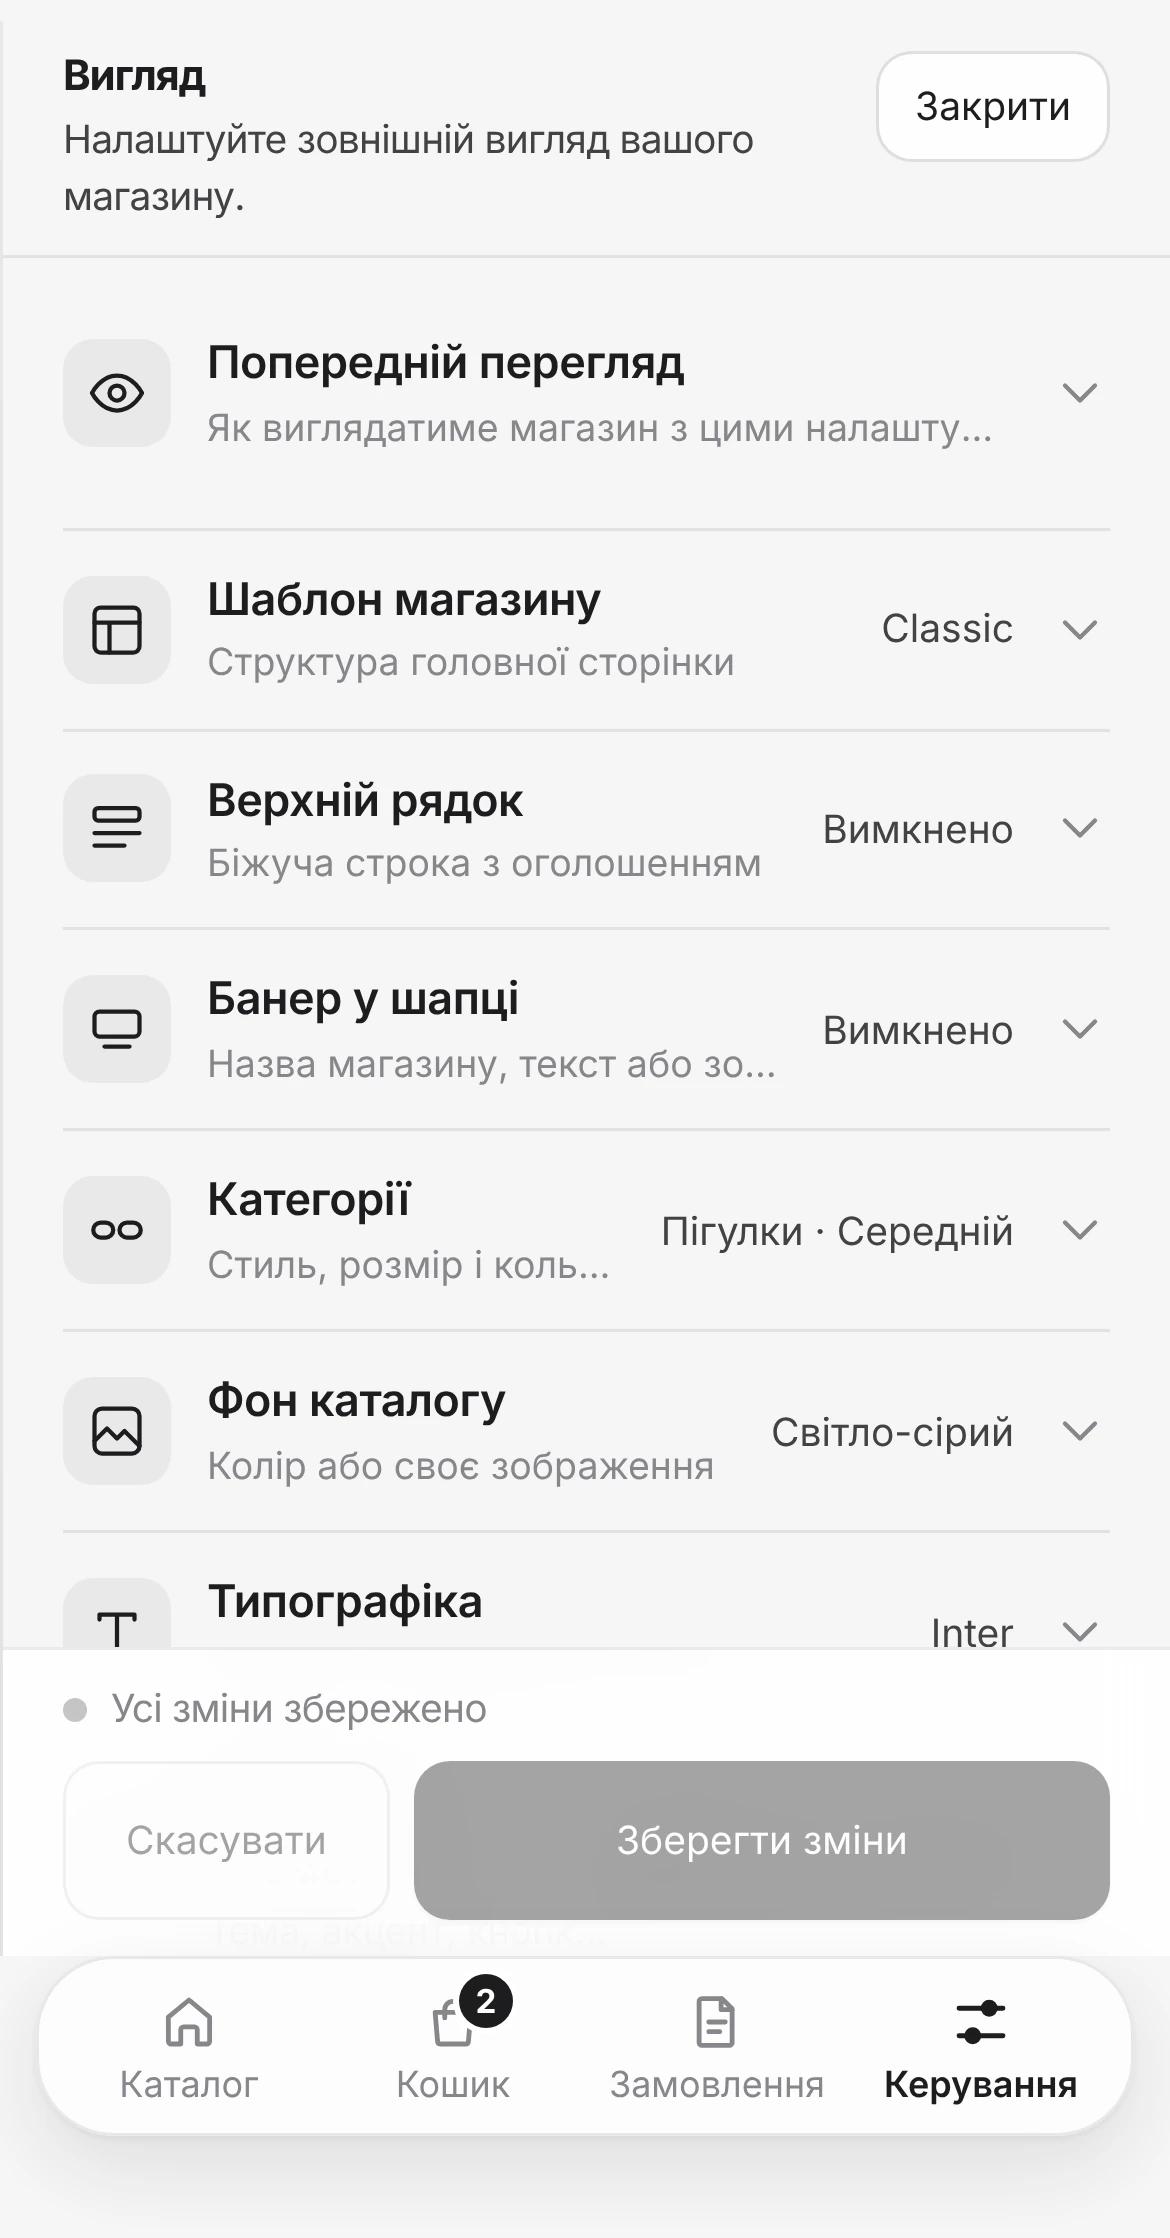
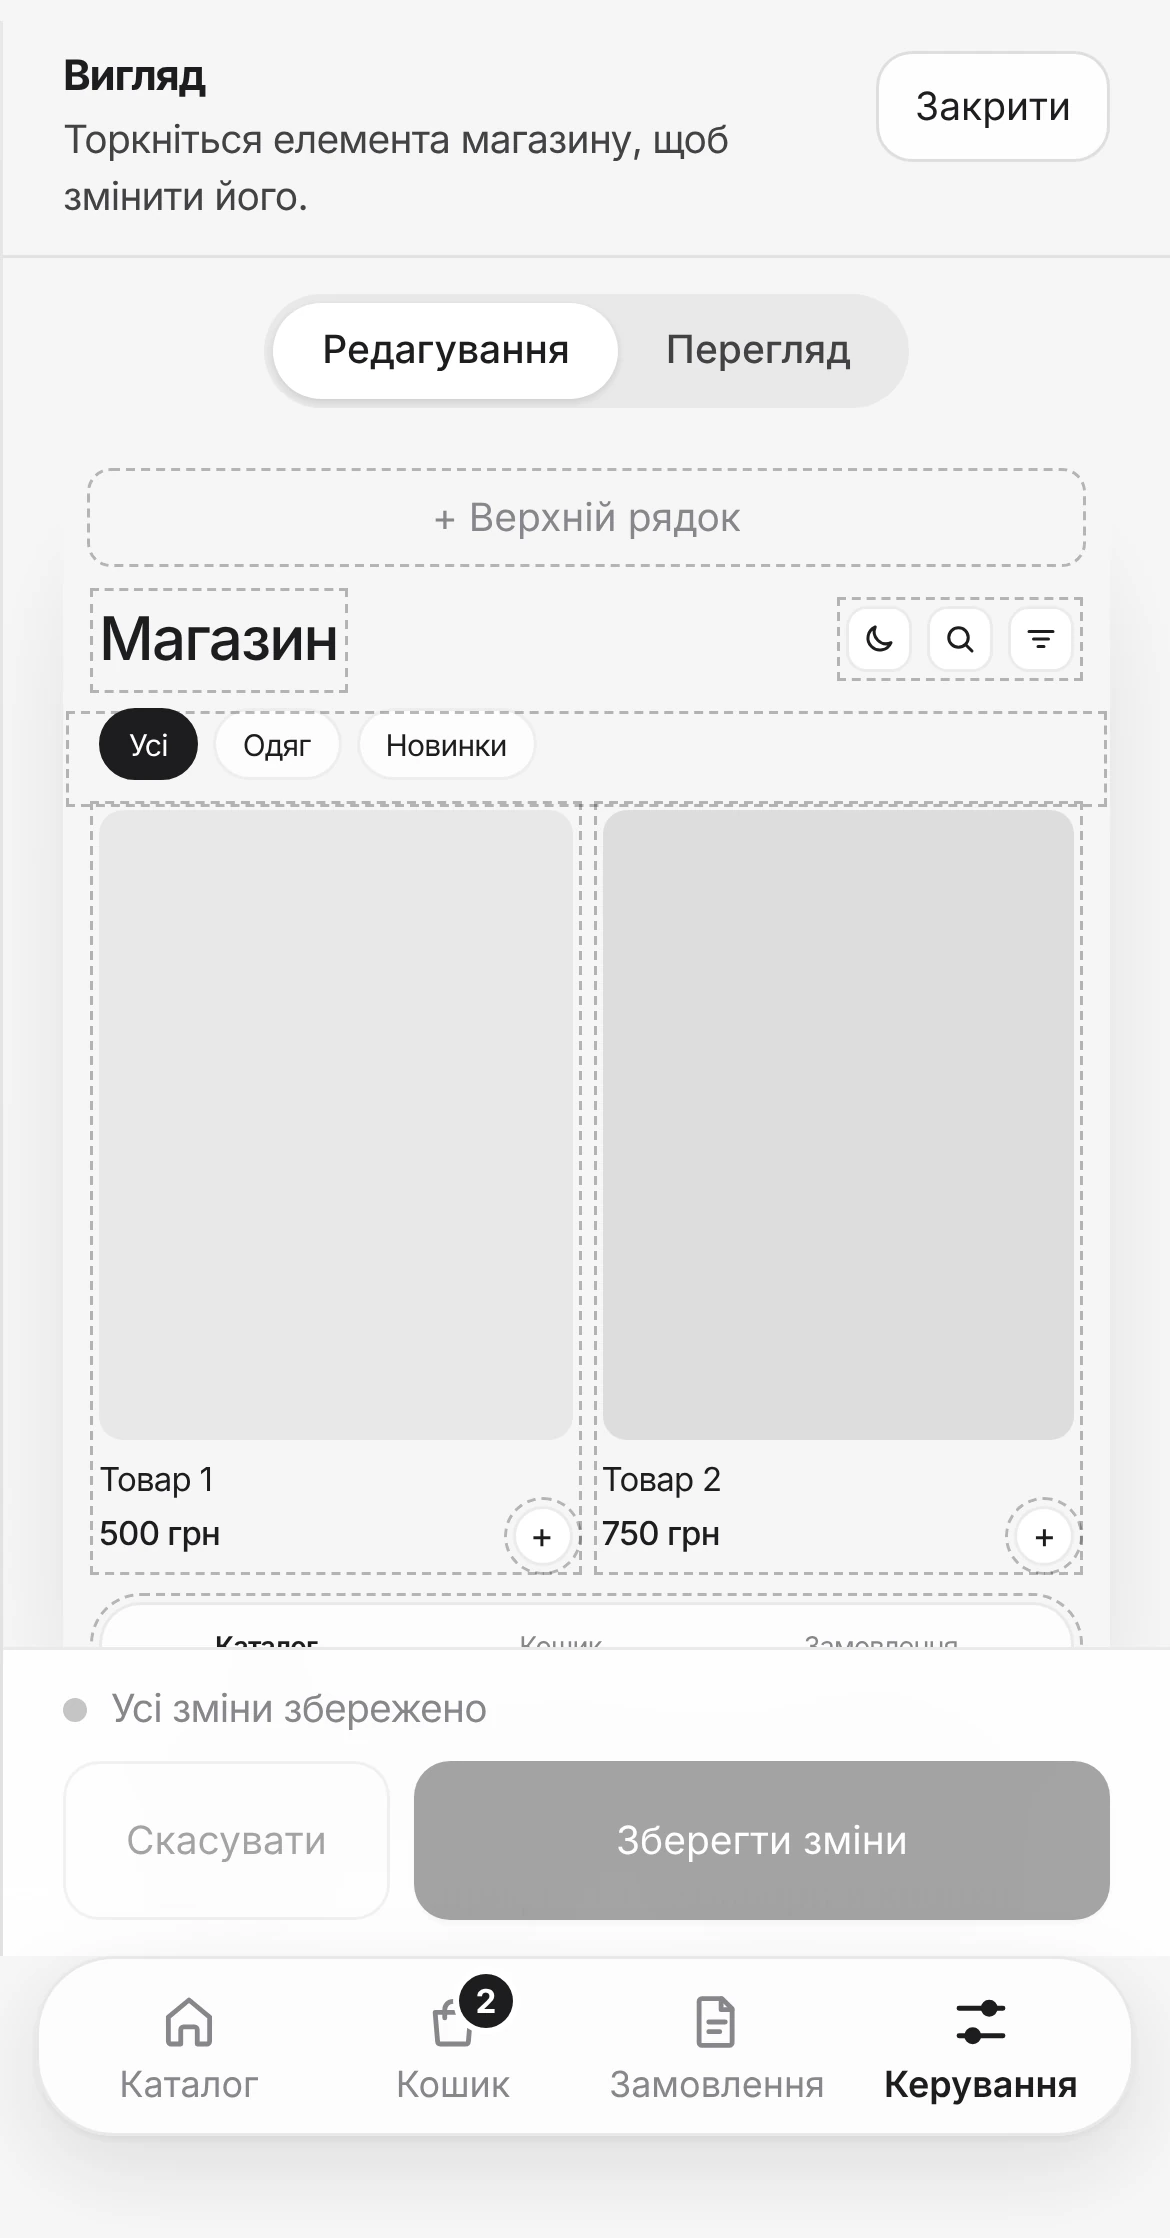
Docs: Вигляд is a tap-to-edit constructor
The appearance screen now shows the shop itself: tap an element to open
its settings, drag a banner's text, remove or re-add optional elements.
New screenshot appearance-edit, platform facts for the new names.

Claude-Session: https://claude.ai/code/session_01Tv2wQGZTVvFh9Ve4QWyixy

diff --git a/docs/_internal/platform-facts.md b/docs/_internal/platform-facts.md
@@ -160,6 +160,19 @@
 - `Модулі` → **Модулі магазину**
 - `Доставка` → **Нова пошта**
 - `Вигляд` → картки немає: чип одразу відкриває редактор вигляду
+
+### Редактор «Вигляд» (конструктор, з 2026-10)
+
+Джерело: `backend/webapp/admin_products/index.html` (`#appearanceDrawer`) і `main.js` (`AP_SHEET_TITLES`, `AP_OPTIONAL`).
+
+- Угорі перемикач `Редагування` / `Перегляд`; кнопки `Закрити`, внизу `Скасувати` і `Зберегти зміни`.
+- Макет магазину: дотик до елемента відкриває знизу панель з кнопкою `Готово`.
+- Назви панелей: `Шаблон магазину`, `Верхній рядок`, `Банер у шапці`, `Кнопки в шапці`, `Категорії`, `Фон каталогу`, `Шрифт і текст`, `Кольори й кнопки`, `Картки товарів`, `Додати елемент`; банер шаблону відкриває панель з назвою свого слоту (наприклад «Банер на весь екран»).
+- Кнопки під макетом: `Шаблон`, `Шрифт`, `Кольори й кнопки`, `Фон`, `+ Додати елемент`.
+- `Кнопки в шапці`: перемикачі `Пошук`, `Фільтри та сортування`, `Світла / темна тема` (поля теми `show_search`, `show_filters`, `show_theme_toggle`, за замовчуванням увімкнені).
+- Кнопки видалення в панелях: `Прибрати з магазину` (верхній рядок), `Вимкнути банер у шапці`.
+- Вимкнений верхній рядок на макеті: заготовка `+ Верхній рядок`.
+- Нижнє меню на макеті не змінюється (дотик показує підказку).
 - `Команда` → **Адміни магазину**
 - `Контент` → **Тексти магазину**, **Кнопки та назви**
 

diff --git a/docs/assets/shots/README.md b/docs/assets/shots/README.md
@@ -44,7 +44,7 @@ python tools/export_shots.py <шлях до insomnia.workshop>/tools/webapp-harn
 | `payments-currency` | Валюти магазину (сценарій у `tools/docshots-harness.patch`) | payments |
 | `settings-delivery` | Екран `Підключення Нової пошти` | quick-start, nova-poshta |
 | `delivery-list`, `delivery-service`, `delivery-countries` | Екран `Доставка`, екран служби й екран `Країни доставки` (сценарії в `tools/docshots-harness.patch`) | owner-guide |
-| `appearance` | Редактор вигляду | quick-start, owner-guide |
+| `appearance`, `appearance-edit` | Редактор вигляду: макет магазину і відкрита панель `Кнопки в шапці` | quick-start, owner-guide |
 | `promos`, `campaigns`, `analytics`, `customers` | Інструменти зростання | index, owner-guide |
 | `settings-all`, `shell-orders` | Генеруються сценарієм, поки ніде не використані | — |
 

diff --git a/docs/quick-start.md b/docs/quick-start.md
@@ -174,7 +174,7 @@ icon: ph/rocket-launch
 
 <p class="c-path" markdown="span">`Керування` → `Налаштування` → `Вигляд`</p>
 
-Оберіть шаблон, завантажте логотип і банер, підберіть колір кнопок. Кнопка `Попередній перегляд` покаже результат до збереження.
+На екрані ваш магазин. Торкніться `Шаблон` під ним, щоб обрати структуру головної, потім торкайтеся банера, назви чи кнопок на макеті, щоб змінити їх. Збережіть кнопкою `Зберегти зміни`.
 
 Найбільше на враження впливають якісні фото товарів і зрозумілий логотип. З них і почніть.
 
